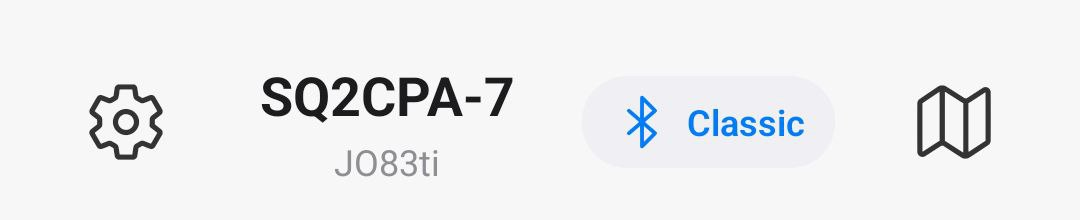
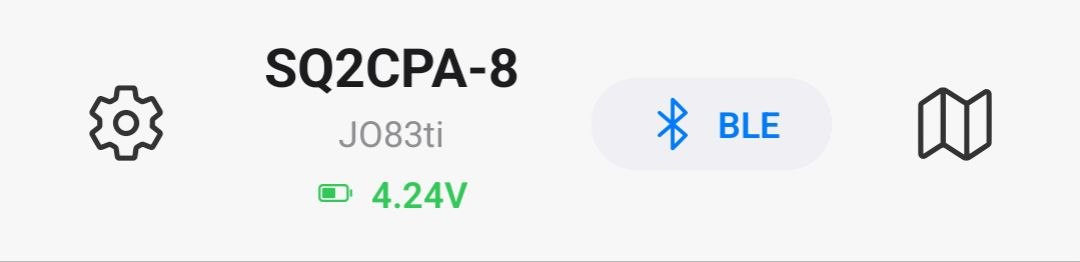
improvement: mobile app messages

diff --git a/lora_aprs_mobile_app/messages.md b/lora_aprs_mobile_app/messages.md
@@ -27,6 +27,12 @@ On the **Main Screen**, you will find the **Messages Section**.
 - **Messages List (Chat Icon)**: Tapping this button opens your full conversation list. If you have unread messages, a badge will appear on this icon indicating the count.
 - **New Message (Pencil Icon)**: This button, located next to the chat icon, opens a new, blank message screen.
 
+### Unread Messages Indicator on Other Screens
+
+You don't have to be on the main screen to know when something new arrives. On other screens (for example, **Recent stations**), a messages icon with an unread badge appears in the top-right corner whenever you have unread messages. Tapping it takes you straight to your conversations.
+
+<img src="/assets/images/lora_aprs_mobile_app/messages/message-notification-other.jpg" alt="Unread Messages Indicator on Other Screens" style="max-width: 300px; width: 100%;">
+
 ---
 
 ## New Message Screen
@@ -71,7 +77,13 @@ This is a standard chat screen showing the history with a specific station.
 
 <img src="/assets/images/lora_aprs_mobile_app/messages/conversation-view.jpg" alt="Conversation View Screen" style="max-width: 300px; width: 100%;">
 
-In the top-right corner you will see the **callsign with SSID** - this is the SSID that your messages are currently being sent to, serving as an informational indicator. Next to it there are two icons:
+At the top of the conversation you will see the **callsign with SSID** - this is the SSID that your messages are currently being sent to, serving as an informational indicator. On the right side of the top bar there are two buttons - one for **Predefined Messages** and one for the **Query Commands** helper.
+
+<img src="/assets/images/lora_aprs_mobile_app/messages/messages-top.jpg" alt="Conversation Top Bar" style="max-width: 300px; width: 100%;">
+
+**Note**: These two buttons sometimes get stuck and don't respond on the first tap - if nothing happens, just tap a few times and the panel will open.
+
+Next to the callsign there are two icons:
 
 - **Predefined Messages (left icon)**: Opens a list of predefined messages that you can quickly recall, edit, and send. This is especially useful for activities like **SOTA**, **POTA**, and similar operations where you frequently send the same messages.
 
@@ -80,6 +92,18 @@ In the top-right corner you will see the **callsign with SSID** - this is the SS
 - **Query Commands (right icon)**: Opens a toolkit of query commands. Useful when you want to quickly send a query command to a station but don't remember the exact syntax.
 
 <img src="/assets/images/lora_aprs_mobile_app/messages/query-commands.jpg" alt="Query Commands" style="max-width: 300px; width: 100%;">
+
+### Query Command Suggestions
+
+When you start typing a **query command** for a supported device, the app shows inline suggestions above the message field, with the matching commands and a short description of each. You can tap a suggestion to fill it in instead of typing the full command.
+
+<img src="/assets/images/lora_aprs_mobile_app/messages/query-helper.jpg" alt="Query Command Suggestions" style="max-width: 300px; width: 100%;">
+
+### Quick Replies
+
+If the other station has just written to you, the app shows a row of **quick replies** (such as `Yes`, `No`, `73!`, `QSL`, `QRT`) above the message field. Tap one to instantly send that response without typing.
+
+<img src="/assets/images/lora_aprs_mobile_app/messages/quick-replies.jpg" alt="Quick Replies" style="max-width: 300px; width: 100%;">
 
 ### Message Details
 